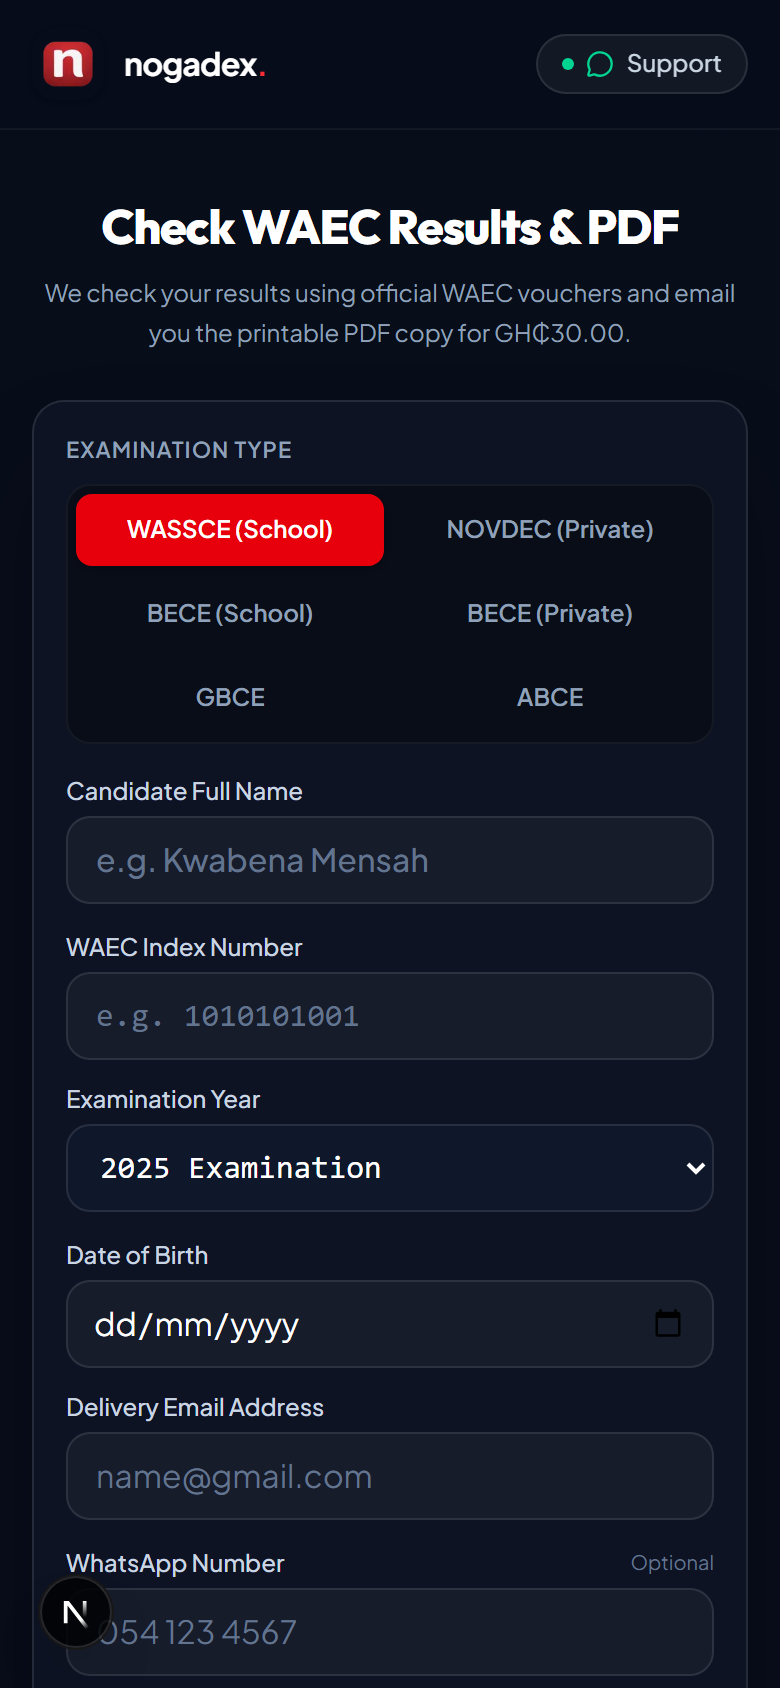
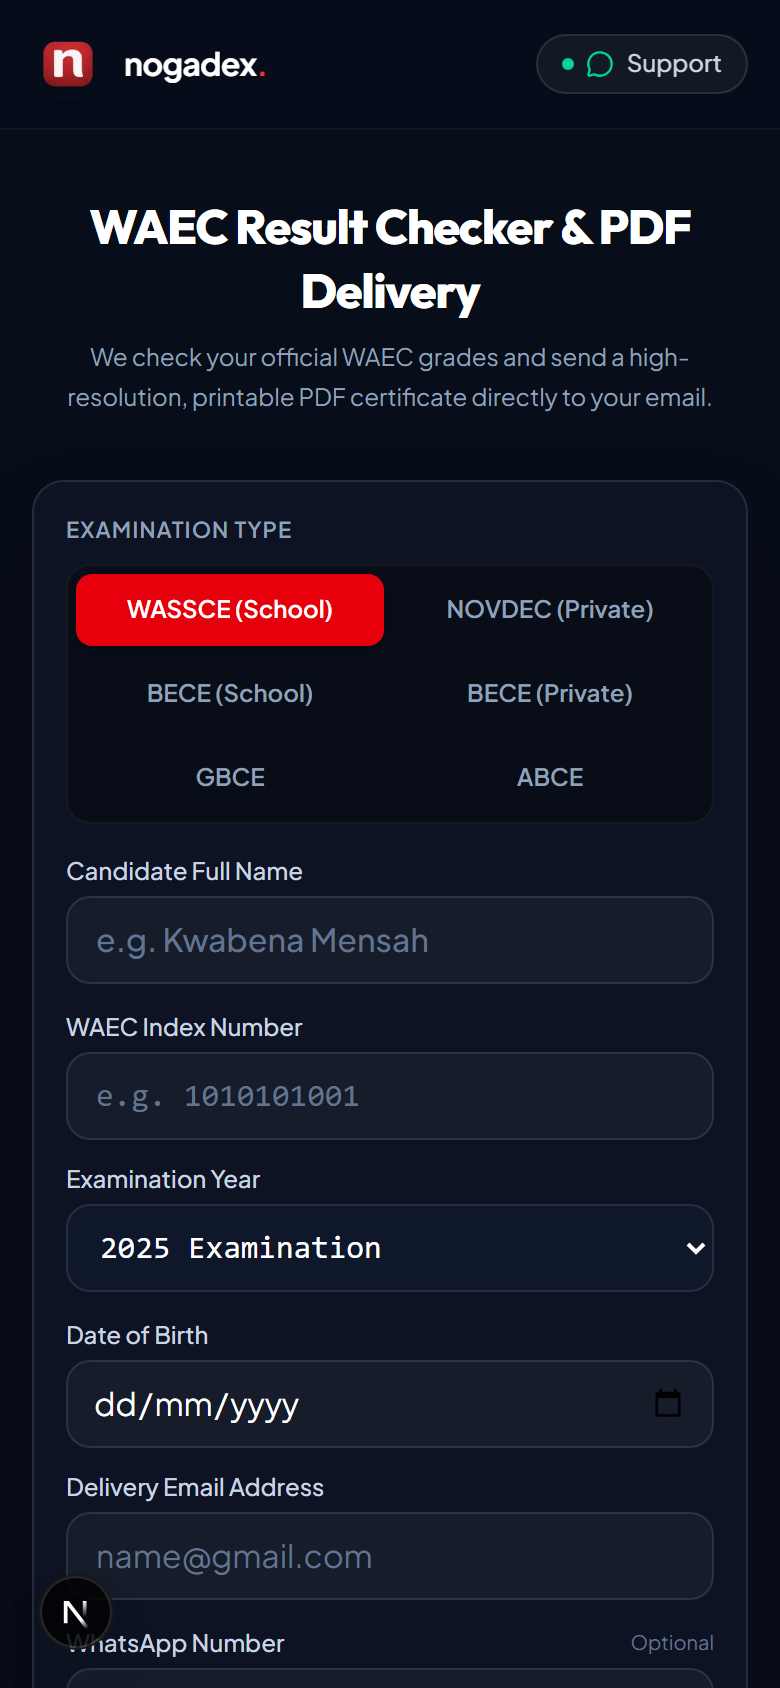
refactor: complete senior product designer anti-AI UI overhaul and Playwright verification

diff --git a/app/page.tsx b/app/page.tsx
@@ -5,8 +5,8 @@ import {
   FileText,
   MailCheck,
   ShieldCheck,
-  Zap,
-  HelpCircle,
+  Clock,
+  Check,
   MessageCircle,
 } from "lucide-react";
 
@@ -19,61 +19,72 @@ export default function HomePage() {
       <Navbar />
 
       <main className="flex-1 py-8 sm:py-12 px-4 sm:px-6">
-        <div className="max-w-xl mx-auto space-y-6 sm:space-y-8">
+        <div className="max-w-xl mx-auto space-y-8">
           
           {/* Header intro */}
           <div className="text-center space-y-2">
             <h1 className="text-2xl sm:text-3xl font-heading font-extrabold tracking-tight text-white">
-              Check WAEC Results &amp; PDF
+              WAEC Result Checker &amp; PDF Delivery
             </h1>
             <p className="text-xs sm:text-sm text-slate-400 max-w-md mx-auto leading-relaxed">
-              We check your results using official WAEC vouchers and email you the printable PDF copy for GH₵30.00.
+              We check your official WAEC grades and send a high-resolution, printable PDF certificate directly to your email.
             </p>
           </div>
 
           {/* Form Card (The Core Product) */}
           <StudentForm />
 
-          {/* Key Value Props */}
-          <div className="grid grid-cols-1 sm:grid-cols-3 gap-3 pt-2">
-            <div className="p-3.5 rounded-2xl bg-white/[0.02] border border-white/5 text-center">
-              <ShieldCheck className="w-4 h-4 text-emerald-400 mx-auto mb-1.5" />
-              <div className="text-xs font-semibold text-slate-200">Official Vouchers</div>
-              <div className="text-[11px] text-slate-400 mt-0.5">Legitimate WAEC pins</div>
+          {/* What You Receive (Human Checklist instead of generic 3-card grid) */}
+          <div className="rounded-2xl bg-[#0d1322] border border-white/10 p-5 space-y-3.5">
+            <div className="text-xs font-bold uppercase tracking-wider text-slate-300">
+              What your GH₵30.00 fee covers
             </div>
 
-            <div className="p-3.5 rounded-2xl bg-white/[0.02] border border-white/5 text-center">
-              <MailCheck className="w-4 h-4 text-red-400 mx-auto mb-1.5" />
-              <div className="text-xs font-semibold text-slate-200">PDF Delivery</div>
-              <div className="text-[11px] text-slate-400 mt-0.5">High-res &amp; printable</div>
-            </div>
+            <ul className="space-y-2.5 text-xs text-slate-300">
+              <li className="flex items-start gap-2.5">
+                <Check className="w-4 h-4 text-emerald-400 shrink-0 mt-0.5" />
+                <span><strong className="text-white">Official WAEC Scratch Card:</strong> A genuine, unused voucher PIN is purchased and used for your check.</span>
+              </li>
+              <li className="flex items-start gap-2.5">
+                <Check className="w-4 h-4 text-emerald-400 shrink-0 mt-0.5" />
+                <span><strong className="text-white">Certified PDF Certificate:</strong> Clean, high-resolution document ready for university or polytechnic admissions.</span>
+              </li>
+              <li className="flex items-start gap-2.5">
+                <Check className="w-4 h-4 text-emerald-400 shrink-0 mt-0.5" />
+                <span><strong className="text-white">Instant Email Dispatch:</strong> Delivered directly to your inbox with a copy stored in your tracking link.</span>
+              </li>
+              <li className="flex items-start gap-2.5">
+                <Check className="w-4 h-4 text-emerald-400 shrink-0 mt-0.5" />
+                <span><strong className="text-white">WhatsApp Agent Support:</strong> Direct desk support if you have any questions or made a typo in your index number.</span>
+              </li>
+            </ul>
+          </div>
 
-            <div className="p-3.5 rounded-2xl bg-white/[0.02] border border-white/5 text-center">
-              <Zap className="w-4 h-4 text-cyan-400 mx-auto mb-1.5" />
-              <div className="text-xs font-semibold text-slate-200">2-Min Turnaround</div>
-              <div className="text-[11px] text-slate-400 mt-0.5">Fast email dispatch</div>
+          {/* Genuine Student FAQs */}
+          <div className="space-y-4">
+            <h2 className="text-sm font-bold text-slate-200 tracking-tight">
+              Common Questions
+            </h2>
+
+            <div className="space-y-3 text-xs text-slate-400">
+              <div className="p-4 rounded-xl bg-white/[0.02] border border-white/5 space-y-1">
+                <div className="font-semibold text-slate-200">How long does delivery take?</div>
+                <div>Results are checked and dispatched within 2 to 5 minutes once payment is confirmed via Mobile Money or Card.</div>
+              </div>
+
+              <div className="p-4 rounded-xl bg-white/[0.02] border border-white/5 space-y-1">
+                <div className="font-semibold text-slate-200">Can I use this PDF for university admission applications?</div>
+                <div>Yes. The generated PDF displays your candidate photo, school name, subject grades, and official verification serials suitable for printing and upload to KNUST, UG, UCC, or other tertiary portals.</div>
+              </div>
+
+              <div className="p-4 rounded-xl bg-white/[0.02] border border-white/5 space-y-1">
+                <div className="font-semibold text-slate-200">What if my index number is incorrect?</div>
+                <div>Contact our support desk on WhatsApp (+{whatsappNumber}) with your payment reference and we will immediately update your details before checking.</div>
+              </div>
             </div>
           </div>
 
-          {/* FAQ Accordion / Notes */}
-          <div className="p-5 rounded-2xl bg-white/[0.02] border border-white/5 space-y-3">
-            <h3 className="text-xs font-semibold text-slate-300 uppercase tracking-wider">
-              Frequently Asked Questions
-            </h3>
-
-            <div className="space-y-2.5 text-xs">
-              <div>
-                <span className="font-semibold text-slate-200 block">Do I need to buy a separate scratch card?</span>
-                <span className="text-slate-400 mt-0.5 block">No. The GH₵30.00 fee covers the official voucher pin and the PDF delivery.</span>
-              </div>
-              <div className="pt-2 border-t border-white/5">
-                <span className="font-semibold text-slate-200 block">Can I print the PDF for university admissions?</span>
-                <span className="text-slate-400 mt-0.5 block">Yes! The PDF contains your full certified subject grades ready for university applications.</span>
-              </div>
-            </div>
-          </div>
-
-          {/* WhatsApp Reassurance */}
+          {/* WhatsApp Direct Link */}
           <div className="text-center pt-2 pb-4">
             <a
               href={`https://wa.me/${whatsappNumber}`}
@@ -82,7 +93,7 @@ export default function HomePage() {
               className="inline-flex items-center gap-2 text-xs font-medium text-slate-400 hover:text-emerald-400 transition-colors"
             >
               <MessageCircle className="w-4 h-4 text-emerald-400" />
-              <span>Questions? WhatsApp our desk at +{whatsappNumber}</span>
+              <span>Need help or have questions? WhatsApp +{whatsappNumber}</span>
             </a>
           </div>
 
